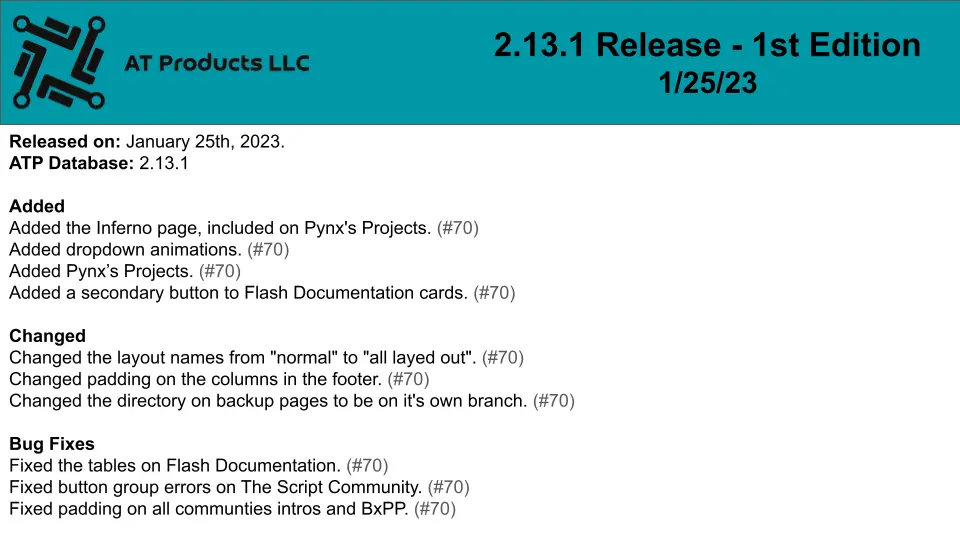
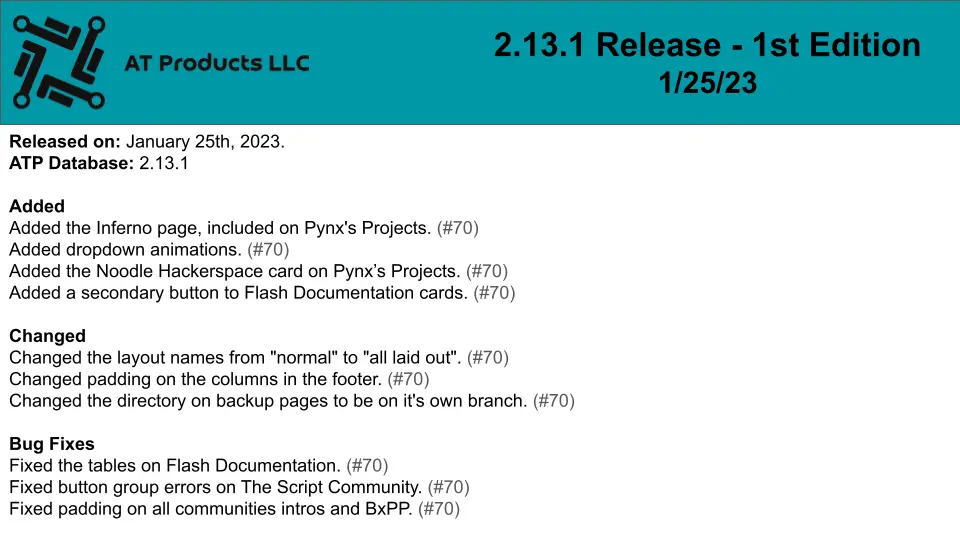
2.13.1 Branch Fix 1 (#71)
* Update bootstrap.css

* Update index.html

* Add files via upload

* Update index.html

* Update web.html

* Update flash.html

* Update ehs.html

* Update codinghome.html

* Update script.html

* Update noodle.html

Changed region(s): [[0.0625, 0.4741, 0.5312, 0.5333], [0.25, 0.9185, 0.5, 0.9778], [0.4062, 0.6519, 0.5625, 0.6815]]

diff --git a/index.html b/index.html
@@ -193,7 +193,7 @@
       <h2 class="card-title">Flash Documentation</h2>
       <p class="card-text">Here are some things about Adobe Flash!</p>
       <a href="/flash" class="btn btn-primary w-100 mb-2">Visit</a>
-      <a href="/backup/flash" class="btn btn-secondary w-100">Visit the all layed out version</a>
+      <a href="/backup/flash" class="btn btn-secondary w-100">Visit the all laid out version</a>
     </div>
   </div>
 </div>
@@ -360,16 +360,16 @@ Beginning in 2019, this company was just a thought, and the past logo was alread
     <b>Added</b><br>
 Added the Inferno page, included on Pynx's Projects. <a href="https://github.com/Alex-Toucan/atproducts.xyz/pull/70" target="_blank" rel="noopener noreferrer">(#70)</a><br>
 Added dropdown animations. <a href="https://github.com/Alex-Toucan/atproducts.xyz/pull/70" target="_blank" rel="noopener noreferrer">(#70)</a><br>
-Added Pynx’s Projects. <a href="https://github.com/Alex-Toucan/atproducts.xyz/pull/70" target="_blank" rel="noopener noreferrer">(#70)</a><br>
+Added the Noodle Hackerspace card to Pynx's Projects. <a href="https://github.com/Alex-Toucan/atproducts.xyz/pull/70" target="_blank" rel="noopener noreferrer">(#70)</a><br>
 Added a secondary button to Flash Documentation cards. <a href="https://github.com/Alex-Toucan/atproducts.xyz/pull/70" target="_blank" rel="noopener noreferrer">(#70)</a><br><br>
     <b>Changed</b><br>
-    Changed the layout names from "normal" to "all layed out". <a href="https://github.com/Alex-Toucan/atproducts.xyz/pull/70" target="_blank" rel="noopener noreferrer">(#70)</a><br>
+    Changed the layout names from "normal" to "all laid out". <a href="https://github.com/Alex-Toucan/atproducts.xyz/pull/70" target="_blank" rel="noopener noreferrer">(#70)</a><br>
     Changed padding on the columns in the footer. <a href="https://github.com/Alex-Toucan/atproducts.xyz/pull/70" target="_blank" rel="noopener noreferrer">(#70)</a><br>
     Changed the directory on backup pages to be on it's own branch. <a href="https://github.com/Alex-Toucan/atproducts.xyz/pull/70" target="_blank" rel="noopener noreferrer">(#70)</a><br><br>
     <b>Bug Fixes</b><br>
 Fixed the tables on Flash Documentation. <a href="https://github.com/Alex-Toucan/atproducts.xyz/pull/70" target="_blank" rel="noopener noreferrer">(#70)</a><br>
 Fixed button group errors on The Script Community. <a href="https://github.com/Alex-Toucan/atproducts.xyz/pull/70" target="_blank" rel="noopener noreferrer">(#70)</a><br>
-Fixed padding on all communties intros and BxPP. <a href="https://github.com/Alex-Toucan/atproducts.xyz/pull/70" target="_blank" rel="noopener noreferrer">(#70)</a>
+Fixed padding on all communities intros and BxPP. <a href="https://github.com/Alex-Toucan/atproducts.xyz/pull/70" target="_blank" rel="noopener noreferrer">(#70)</a>
   </p>
 </div> </main>
 <footer>

diff --git a/codinghome.html b/codinghome.html
@@ -129,7 +129,7 @@
   <div id="resources">
             <h2> Resources </h2>
         <p> What do you want to know about today? </p>
-    <a href="/backup/codinghome" class="btn btn-link">View the all layed out format</a> <br> <br>
+    <a href="/backup/codinghome" class="btn btn-link">View the all laid out format</a> <br> <br>
 <button type="button" class="btn btn-dl btn-resource" data-bs-toggle="modal" data-bs-target="#vm">Viruses &amp; Malware</button><div class="modal fade" id="vm" data-bs-backdrop="static" data-bs-keyboard="false" tabindex="-1" aria-labelledby="staticBackdropLabel" aria-hidden="true"><div class="modal-dialog"><div class="modal-content"><div class="modal-header">
 <h5 class="modal-title" id="vmt">Viruses &amp; Malware</h5><button type="button" class="btn-close" data-bs-dismiss="modal" aria-label="Close"></button></div><div class="modal-body">
 <i> To close this page, click the X button, or the "Close" button to close. Clicking off the pop-up will not work. </i>

diff --git a/ehs.html b/ehs.html
@@ -116,7 +116,7 @@
 </div> <hr> <div id="resources">
                <h2> Resources </h2>
         <p> What do you want to know about today? </p>
-        <a href="/backup/ehs" class="btn btn-link">View the all layed out format</a><br><br>
+        <a href="/backup/ehs" class="btn btn-link">View the all laid out format</a><br><br>
         <button type="button" class="btn btn-dl btn-resource" data-bs-toggle="modal" data-bs-target="#dw">Dark Web</button><div class="modal fade" id="dw" data-bs-backdrop="static" data-bs-keyboard="false" tabindex="-1" aria-labelledby="staticBackdropLabel" aria-hidden="true"><div class="modal-dialog"><div class="modal-content"><div class="modal-header">
 <h5 class="modal-title" id="dwt">Dark Web</h5><button type="button" class="btn-close" data-bs-dismiss="modal" aria-label="Close"></button></div><div class="modal-body">
 <i> To close this page, click the X button, or the "Close" button to close. Clicking off the pop-up will not work. </i>

diff --git a/noodle.html b/noodle.html
@@ -120,7 +120,7 @@
   <div id="resources">
             <h2> Resources </h2>
         <p> What do you want to know about today? </p>
-    <a href="/backup/noodle" class="btn btn-link">View the all layed out format</a> <br> <br>
+    <a href="/backup/noodle" class="btn btn-link">View the all laid out format</a> <br> <br>
 <button type="button" class="btn btn-dl btn-resource" data-bs-toggle="modal" data-bs-target="#pt">Pynx Technologies</button><div class="modal fade" id="pt" data-bs-backdrop="static" data-bs-keyboard="false" tabindex="-1" aria-labelledby="staticBackdropLabel" aria-hidden="true"><div class="modal-dialog"><div class="modal-content"><div class="modal-header">
 <h5 class="modal-title" id="ptt">Pynx Technologies</h5><button type="button" class="btn-close" data-bs-dismiss="modal" aria-label="Close"></button></div><div class="modal-body">
 <i> To close this page, click the X button, or the "Close" button to close. Clicking off the pop-up will not work. </i>

diff --git a/script.html b/script.html
@@ -104,7 +104,7 @@
     </div> <hr> <div id="resources">
         <h2> Resources </h2>
         <p> What do you want to know about today? </p>
-        <a href="/backup/script">View the all layed out format</a> <br> <br>
+        <a href="/backup/script">View the all laid out format</a> <br> <br>
         <button type="button" class="btn btn-dl btn-resource" data-bs-toggle="modal" data-bs-target="#lr">Learning Resources</button><div class="modal fade" id="lr" data-bs-backdrop="static" data-bs-keyboard="false" tabindex="-1" aria-labelledby="staticBackdropLabel" aria-hidden="true"><div class="modal-dialog"><div class="modal-content"><div class="modal-header">
 <h5 class="modal-title" id="lrt">Learning Resources</h5><button type="button" class="btn-close" data-bs-dismiss="modal" aria-label="Close"></button></div><div class="modal-body">
 <i> To close this page, click the X button, or the "Close" button to close. Clicking off the pop-up will not work. </i>

diff --git a/flash.html b/flash.html
@@ -107,7 +107,7 @@
       <div id="resources">
                     <h2> Resources </h2>
         <p> What do you want to know about today? </p>
-        <a href="/backup/flash" class="btn btn-link">View the all layed out format</a>
+        <a href="/backup/flash" class="btn btn-link">View the all laid out format</a>
         <br><br>
   <button type="button" class="btn btn-dl btn-resource" data-bs-toggle="modal" data-bs-target="#ai">Adobe AIR</button><div class="modal fade" id="ai" data-bs-backdrop="static" data-bs-keyboard="false" tabindex="-1" aria-labelledby="staticBackdropLabel" aria-hidden="true"><div class="modal-dialog"><div class="modal-content"><div class="modal-header">
 <h5 class="modal-title" id="ait">Adobe AIR</h5><button type="button" class="btn-close" data-bs-dismiss="modal" aria-label="Close"></button></div><div class="modal-body">

diff --git a/web.html b/web.html
@@ -99,7 +99,7 @@
   </div>
 </nav>
     </header>
-    <a href="#" class="btn btn-lg btn-lg-square back-to-top"><i class="bi bi-caret-up-fill"></i></a>
+    <a href=5"#" class="btn btn-lg btn-lg-square back-to-top"><i class="bi bi-caret-up-fill"></i></a>
         <main id="web" class="a lrpad"> 
           <h1 class="title"> Web Projects </h1>
  <div class="prorow">
@@ -110,7 +110,7 @@
       <h2 class="card-title">Flash Documentation</h2>
       <p class="card-text">Here are some things about Adobe Flash!</p>
       <a href="/flash" class="btn btn-primary w-100 mb-2">Visit</a>
-      <a href="/backup/flash" class="btn btn-secondary w-100">Visit the all layed out version</a>
+      <a href="/backup/flash" class="btn btn-secondary w-100">Visit the all laid out version</a>
     </div>
   </div>
 </div>
